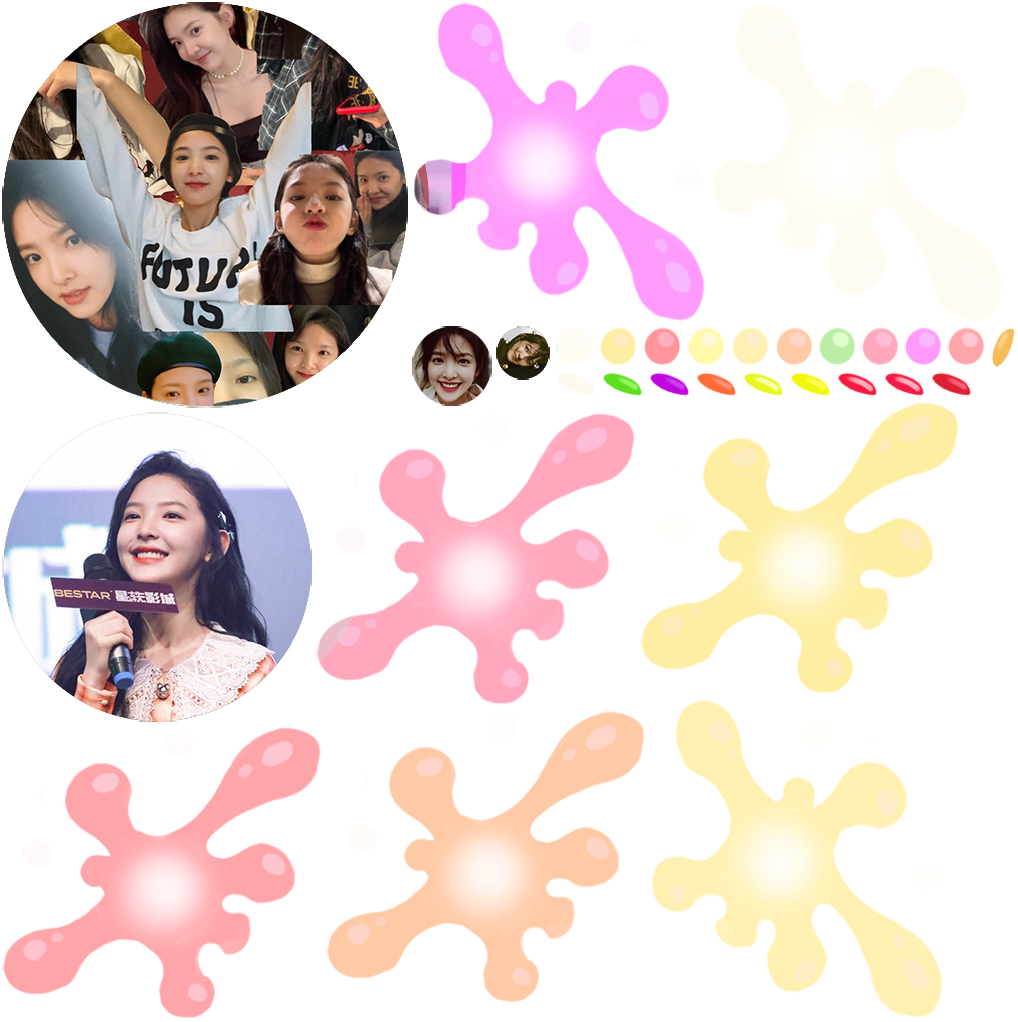
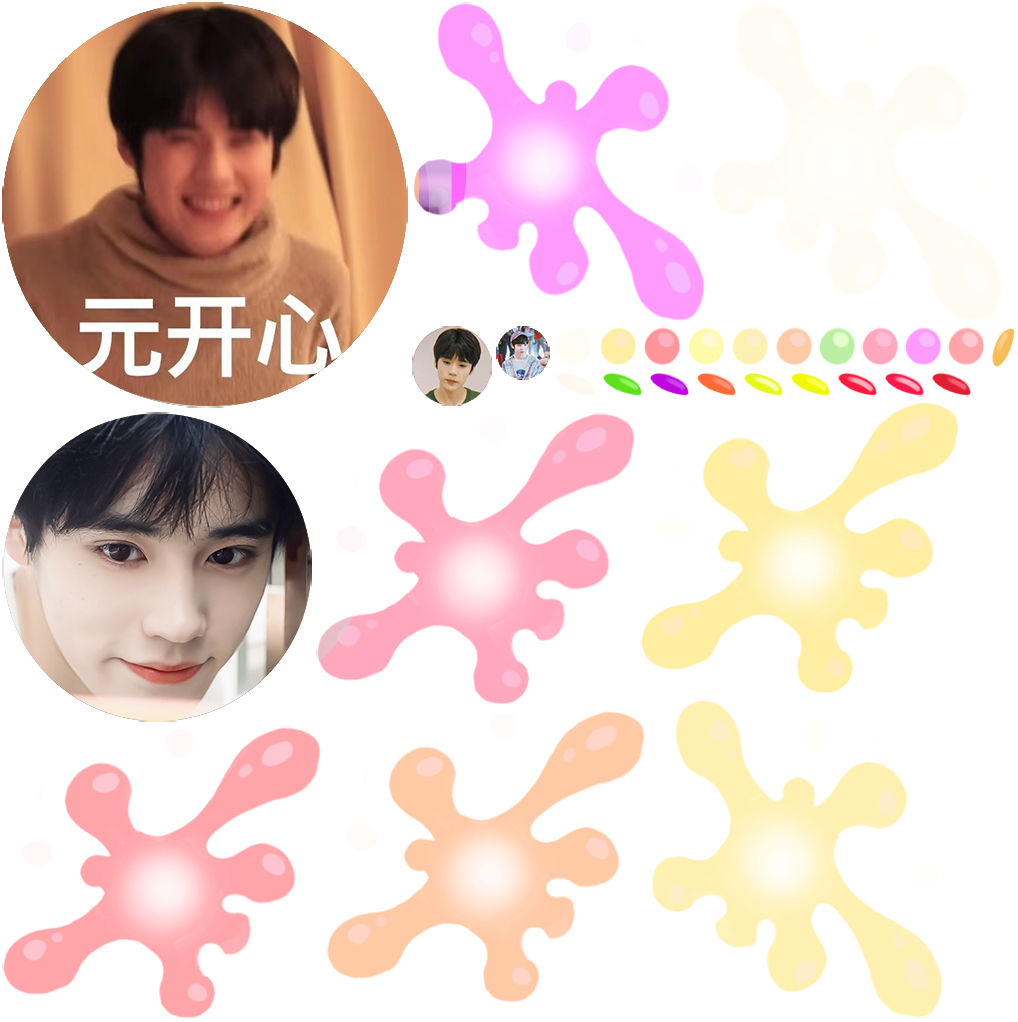
nitial commit

Changed region(s): [[0.0, 0.0, 0.4263, 0.728], [0.3959, 0.3033, 0.5481, 0.3943]]

diff --git a/index.html b/index.html
@@ -4,7 +4,7 @@
 <head>
     <meta charset="utf-8">
 
-    <title>楠朋友合成章若楠</title>
+    <title>合成元崽</title>
 
     <!--http://www.html5rocks.com/en/mobile/mobifying/-->
     <meta name="viewport" content="width=device-width,user-scalable=no,initial-scale=1, minimum-scale=1,maximum-scale=1" />
@@ -109,7 +109,7 @@
             //        console.log("window.navigator.language",window.navigator.language);
 
             if (window.navigator.language == "zh-CN" || window.navigator.language == "zh-cn") {
-                document.title = "楠朋友合成章若楠";
+                document.title = "合成元崽";
             } 
 
 
